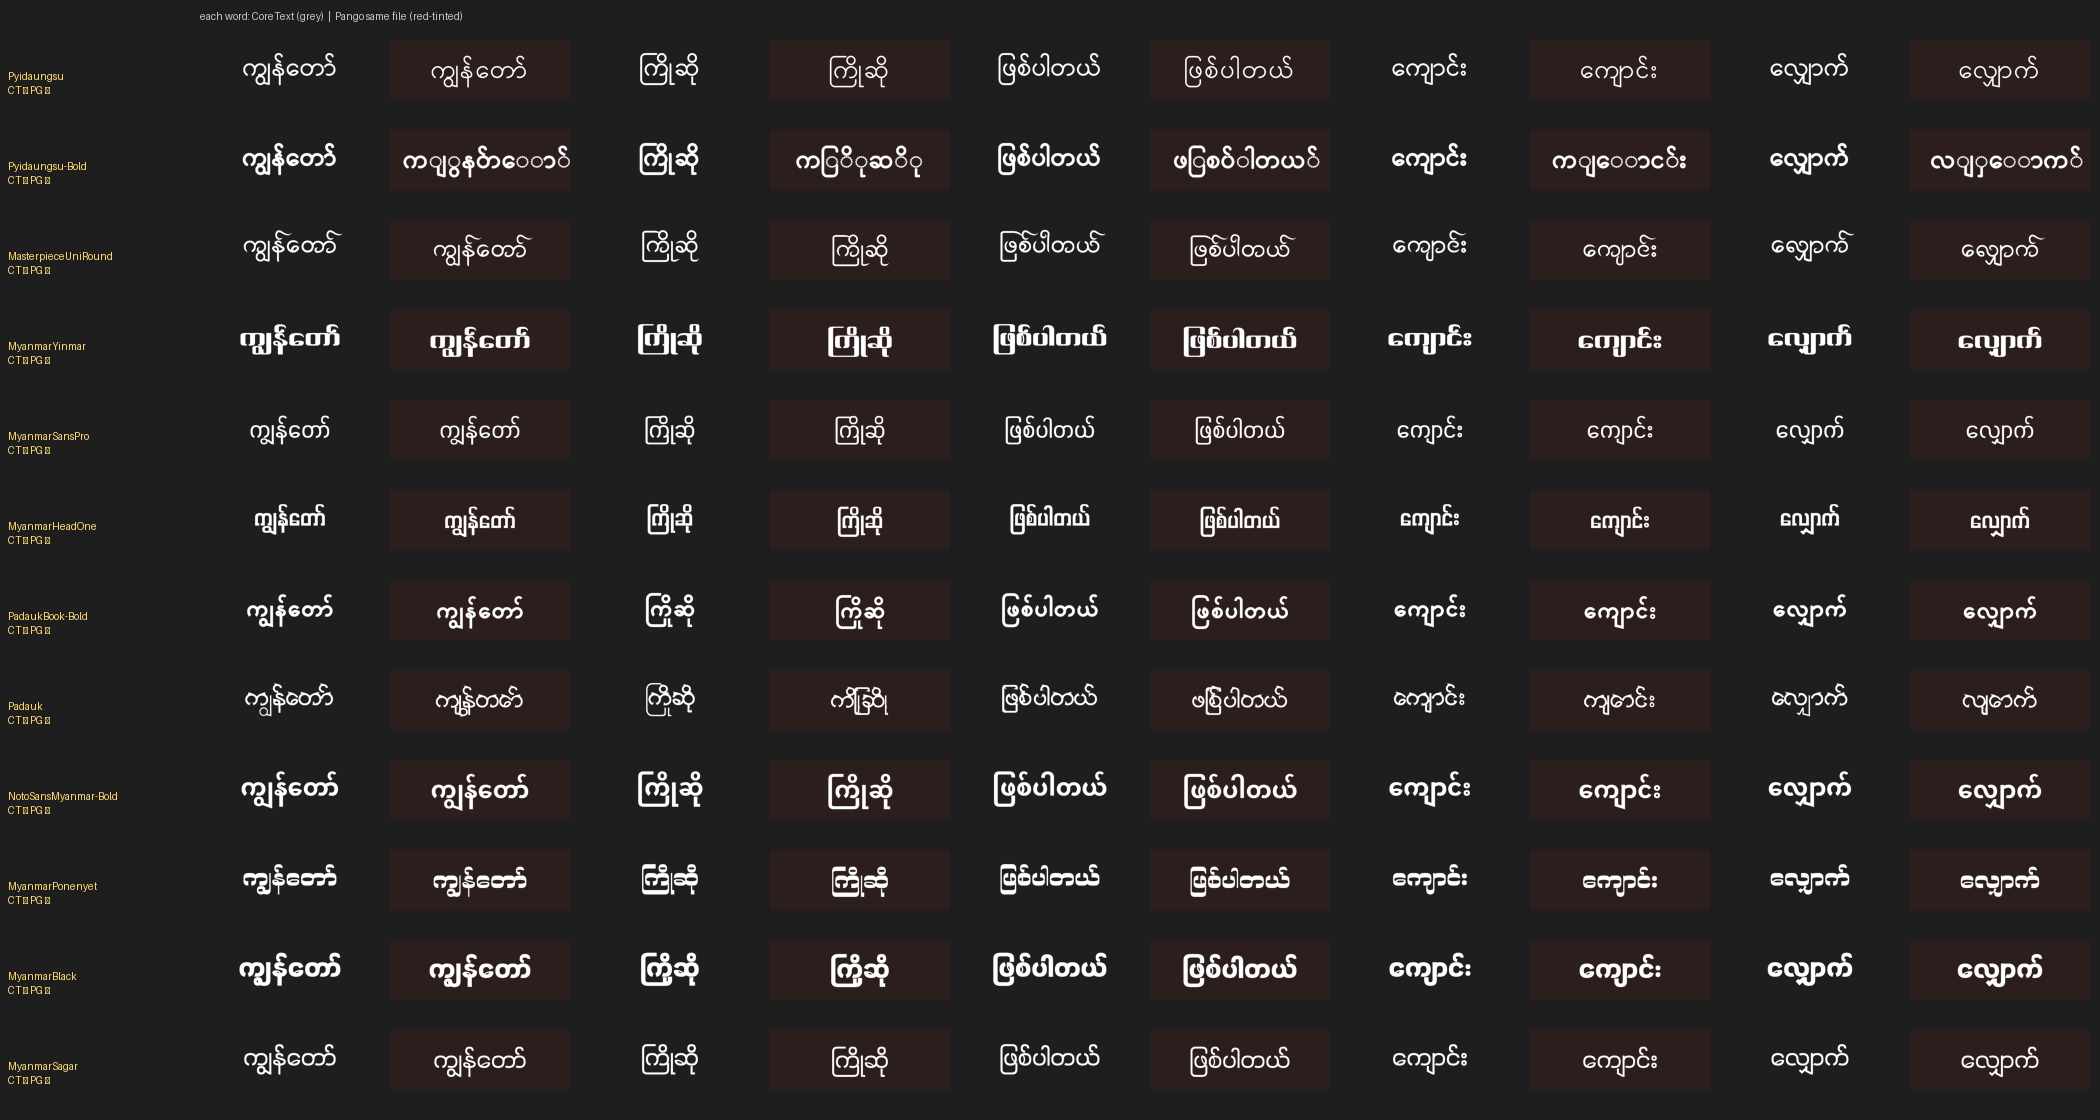
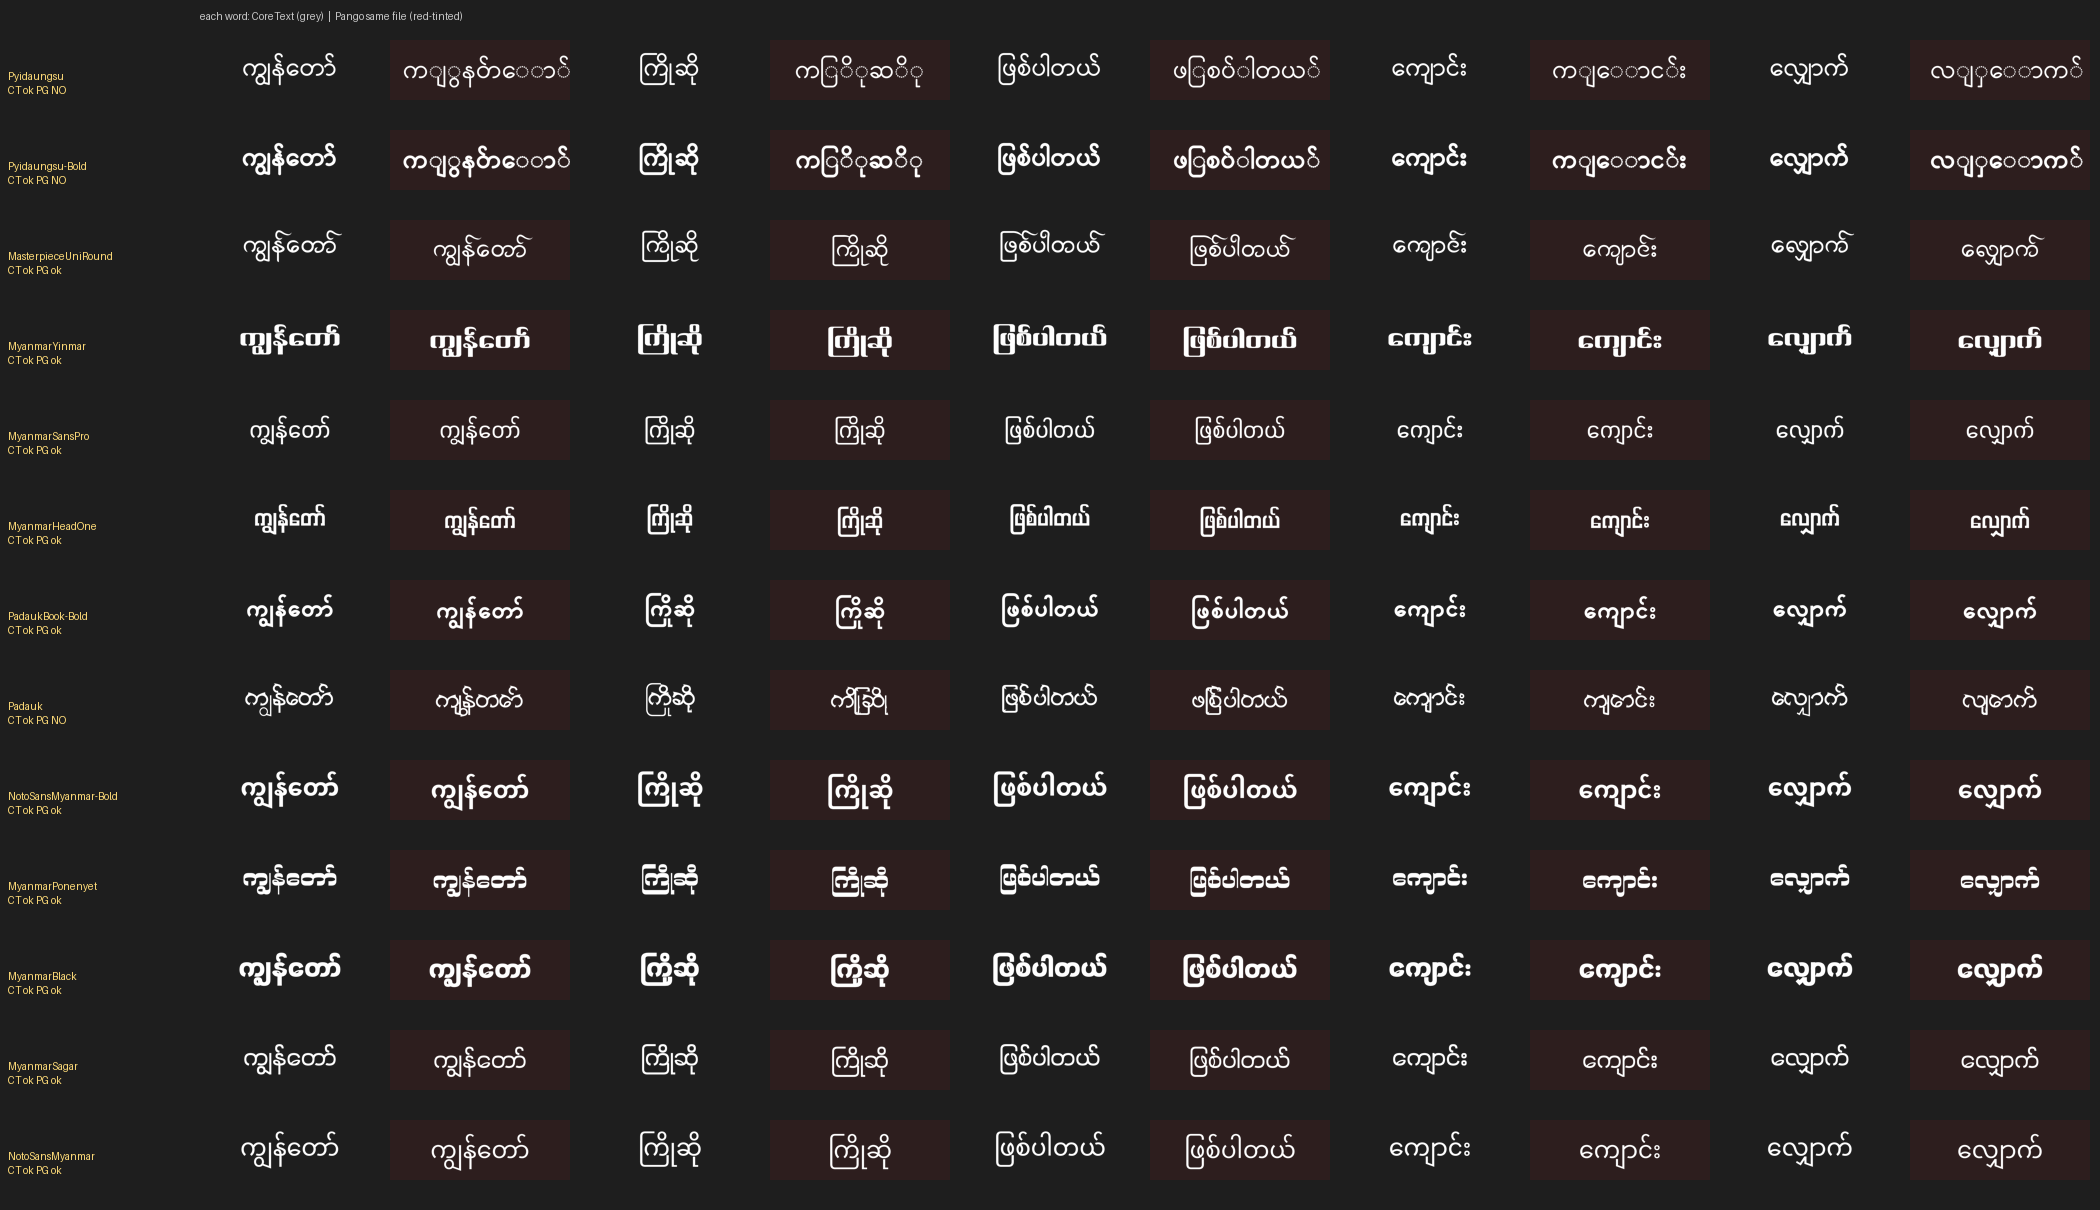
Font guard checks every Burmese font a job uses, not only picker ids
promotional's mmf "NotoSansMyanmar" is not a picker id, so guard() — which
filtered on `n in IDS` — never checked it (found by the TH session).

- tools/font_whitelist.py measure_ids(): picker + recipe mmf + theme MMF +
  cine Burmese caption font.  Only NotoSansMyanmar was outside the picker.
- whitelist now 13 fonts: CoreText 13/13 · Pango 10/13 (+NotoSansMyanmar on
  both, IoU 0.86, checked by eye); the 12 earlier verdicts unchanged
  (diffed).  Pyidaungsu now judged on the file CoreText loads (1.8.3): 0.15.
- core/fonts.py guard(): checks every name passed; callers pass Burmese
  fonts only (recipe mmf, theme MMF; cine passes its Burmese caption font
  only when captions are Burmese).
- test: all 14 recipes + their themes pass the CoreText guard with the real
  list; a recipe font missing from the list is refused.
  (Pango would refuse brand-review/Padauk and cine Burmese/Pyidaungsu.)

R-G1: data produced and checked before the guard change.  R-G2: announced.

diff --git a/tools/font_whitelist.py b/tools/font_whitelist.py
@@ -46,6 +46,31 @@ OUT_JSON = os.path.join(ROOT, "api", "fonts_render.json")
 REP = os.path.join(ROOT, "reports")
 
 
+def measure_ids():
+    """the picker fonts PLUS every Burmese font a recipe, theme or the cine
+    engine uses.  ⚠ picker-only missed `promotional` (mmf "NotoSansMyanmar",
+    not a picker id), so the guard never checked it (TH session, 2026-09-26)."""
+    ids = list(FN.IDS)
+    try:
+        import recipes as R
+        for k in R.R:
+            v = (R.get(k) or {}).get("mmf")
+            if v and v not in ids: ids.append(v)
+    except Exception as e:
+        print("⚠ recipes:", e)
+    try:
+        sys.path.insert(0, FN.MK); import theme as T
+        for tid in list(getattr(T, "THEMES", {}) or {}):
+            T.use(tid); v = T.t().get("MMF")
+            if v and v not in ids: ids.append(v)
+    except Exception as e:
+        print("⚠ themes:", e)
+    src = open(os.path.join(ROOT, "worker", "run.py"), encoding="utf-8").read()
+    m = re.search(r'CINE_FONTS = \{"my": "([^"]+)"', src)
+    if m and m.group(1) not in ids: ids.append(m.group(1))
+    return ids
+
+
 def ct(text, font, out):
     sp = dict(text=text, font=font, fallback="Figtree", size=SIZE, w=900, h=300,
               fill="#FFFFFF", unit="cluster", align="center",
@@ -122,12 +147,13 @@ def provenance():
     if not os.path.exists(CTPATH):
         subprocess.run(["swiftc", "-O", CTPATH + ".swift", "-o", CTPATH], check=True)
     res = {}
-    for ln in subprocess.run([CTPATH, *FN.IDS], capture_output=True, text=True,
+    ids = measure_ids()
+    for ln in subprocess.run([CTPATH, *ids], capture_output=True, text=True,
                              check=True).stdout.splitlines():
         r = json.loads(ln)
         res[r["asked"]] = r
     out = {}
-    for fid in FN.IDS:
+    for fid in ids:
         r = res.get(fid) or {}
         used = r.get("file") or ""
         out[fid] = dict(
@@ -212,7 +238,7 @@ def main():
     for i, w in enumerate(WORDS):
         p = f"{work}/bogus_{i}.png"; ct(w, "NoSuchFont-ZZZ", p); bogus.append(md5(p))
     rows = []
-    for fid in FN.IDS:
+    for fid in measure_ids():
         mac = [f"{work}/{fid}_mac_{i}.png" for i in range(len(WORDS))]
         ok_ct = all(ct(w, fid, p) for w, p in zip(WORDS, mac))
         subst = ok_ct and all(md5(p) == b for p, b in zip(mac, bogus))

diff --git a/tests/test_font_guard.py b/tests/test_font_guard.py
@@ -22,8 +22,15 @@ def main():
     d = tempfile.mkdtemp(); p = os.path.join(d, "fonts_render.json")
     json.dump(dict(coretext=["Pyidaungsu", "Padauk"], pango=["Padauk"]), open(p, "w"))
     FN._RJ = [p]
-    check(FN.guard(["Pyidaungsu", "Figtree"], log=lambda *_: None, r="coretext"),
-          "Pyidaungsu passes on CoreText; Latin names are not the guard's business")
+    check(FN.guard(["Pyidaungsu"], log=lambda *_: None, r="coretext"),
+          "Pyidaungsu passes on CoreText")
+    # a recipe font outside the picker must be checked too (promotional's
+    # "NotoSansMyanmar" slipped through when only picker ids were checked)
+    try:
+        FN.guard(["NotoSansMyanmar"], log=lambda *_: None, r="coretext")
+        check(False, "an unmeasured recipe font must be refused")
+    except FN.FontRefused:
+        check(True, "a recipe font that is not in the measured list is refused")
     try:
         FN.guard(["Pyidaungsu"], log=lambda *_: None, r="pango")
         check(False, "Pyidaungsu on Pango must be refused")
@@ -38,6 +45,23 @@ def main():
     os.environ["MK_TEXT"] = "rsvg"
     check(FN.renderer() == "pango", "MK_TEXT=rsvg ⇒ pango (motionkit's own rule)")
     os.environ.pop("MK_TEXT")
+    # every recipe + its theme passes on CoreText with the REAL measured list
+    FN._RJ = [os.path.join(ROOT, "api", "fonts_render.json")]
+    import recipes as R
+    sys.path.insert(0, FN.MK)
+    import theme as TH
+    refused = []
+    for k in R.R:
+        rc = R.get(k)
+        try:
+            TH.use(rc.get("theme") or "ikki"); thm = TH.t().get("MMF")
+        except Exception:
+            thm = None
+        try:
+            FN.guard([rc.get("mmf"), thm], log=lambda *_: None, r="coretext")
+        except FN.FontRefused:
+            refused.append(k)
+    check(not refused, f"all {len(R.R)} recipes pass the CoreText guard ({refused})")
     # the worker no longer falls back to the recipe font for an unknown choice
     src = open(os.path.join(ROOT, "worker", "run.py"), encoding="utf-8").read()
     check("ပုံသေ သုံးသည်\")" not in src and "FontRefused(f\"ဖောင့် '{jf}'" in src,

diff --git a/core/fonts.py b/core/fonts.py
@@ -77,19 +77,24 @@ class FontRefused(RuntimeError):
 
 
 def guard(names, log=print, r=None):
-    """raise FontRefused when any Burmese font in `names` is not measured-good
-    on this worker's renderer.  Non-picker names (Latin, CJK) are not checked —
-    the whitelist covers the Burmese picker fonts only."""
+    """raise FontRefused when any font in `names` is not measured-good on this
+    worker's renderer.  Callers pass the BURMESE fonts a job will use (recipe
+    `mmf`, theme `MMF`, cine Burmese captions) — every one is checked.
+
+    ⚠ it used to check only picker ids (`n in IDS`), so `promotional`'s
+       "NotoSansMyanmar" — used by a recipe, not in the picker — was never
+       checked (TH session, 2026-09-26).  The whitelist tool now measures
+       recipe/theme/cine fonts too (tools/font_whitelist.py measure_ids)."""
     r = r or renderer()
     wl = whitelist(r)
-    bad = [n for n in dict.fromkeys(n for n in names if n) if n in IDS and n not in wl]
+    bad = [n for n in dict.fromkeys(n for n in names if n) if n not in wl]
     if bad:
         msg = (f"ဖောင့် {', '.join(bad)} ကို ဒီ worker ({r}) မှာ မှန်မှန်ကန်ကန် မရေးနိုင်ပါ — "
                f"တခြားဖောင့် ရွေးပါ (အစားထိုးပြီး မထုတ်ပါ) · "
                f"font {', '.join(bad)} cannot be rendered faithfully on the {r} worker")
         log(f"  ⛔ {msg}")
         raise FontRefused(msg)
-    log(f"  ✓ ဖောင့် စစ်ပြီး ({r}) · {', '.join(n for n in dict.fromkeys(names) if n in IDS) or '—'}")
+    log(f"  ✓ ဖောင့် စစ်ပြီး ({r}) · {', '.join(n for n in dict.fromkeys(names) if n) or '—'}")
     return True
 
 

diff --git a/worker/run.py b/worker/run.py
@@ -5005,8 +5005,8 @@ def _cine_captioner(W, H, sub_lang, log=print):
         import asr as ASR, captions as CP, infogfx as IG, cinevlog as CI
         import fonts as FN
         # render the chosen fonts or refuse (Pyidaungsu is never substituted)
-        FN.guard([CINE_FONTS[l] for l in {"my": ["my"], "en": ["en"],
-                                          "ja_en": ["ja", "en"]}[sub_lang]], log=log)
+        # Burmese captions only — the whitelist covers Burmese fonts
+        if sub_lang == "my": FN.guard([CINE_FONTS["my"]], log=log)
         os.makedirs(work, exist_ok=True)
         cw, mp = CI.compact_talk(talk_wav, windows, os.path.join(work, "talk_only.wav"))
         wav = os.path.join(work, "talk16.wav")
@@ -5057,11 +5057,10 @@ def cine_handle(d, t0):
     pace = over.get("_pace") or "normal"
     srcs = [x for x in (d.get("sources") or [d.get("upload")]) if x]
     # fonts first — refuse before downloading gigabytes, not after the render
-    if sub_lang != "none":
+    if sub_lang == "my":
         import fonts as FN
-        FN.guard([CINE_FONTS[l] for l in {"my": ["my"], "en": ["en"],
-                                          "ja_en": ["ja", "en"]}[sub_lang]],
-                 log=lambda x: print(x, flush=True))
+        if sub_lang == "my":
+            FN.guard([CINE_FONTS["my"]], log=lambda x: print(x, flush=True))
     _sz = sum(float(x.get("size") or 0) for x in srcs) / (1024 ** 3)
     need = _sz * 1.05 + 3.0
     if free_gb(BIG) < need:
